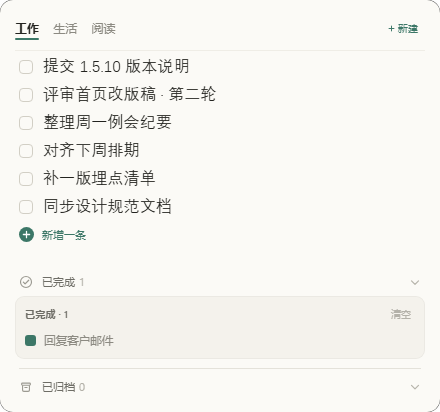
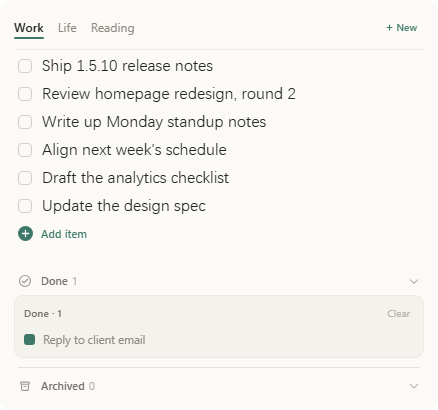
Rewrite README in a formal register, add MIT license, split screenshots by language

diff --git a/README.md b/README.md
@@ -1,48 +1,52 @@
 # Desk List
 
-**A todo list that lives on your wallpaper.** It sits on the desktop layer, under every window, and ignores the mouse completely — until you hold `Ctrl`.
+A minimal todo list that resides on the Windows desktop. It sits below every other window, ignores mouse input by default, and becomes interactive only while `Ctrl` is held.
 
 English · [简体中文](README.zh-CN.md)
 
 <img src="assets/screenshot.png" width="440" alt="Desk List">
 
-## What it is
+## Overview
 
-A small, always-there card of tasks pinned to the desktop. It takes no taskbar slot, never pops up, and never asks to be opened. The list is simply there, next to your icons.
+Desk List renders a single persistent card of tasks directly on the desktop surface. It occupies no taskbar slot, never opens on demand, and requires no interaction beyond a glance.
 
-Clicks pass straight through it, so it blocks nothing. Hold `Ctrl` and it wakes up: category tabs, "new item", and the done / archive drawers fade in.
+Because pointer input passes through by default, it obstructs neither desktop icons nor other applications. Holding `Ctrl` reveals the interface: category tabs, the add action, and the completed and archived drawers.
 
 ## Features
 
-- **Part of the wallpaper** — bottom of the Z-order, click-through, absent from the taskbar and `Alt+Tab`
-- **Hold `Ctrl` to interact** — tabs, add, done and archive drawers appear
-- **`Ctrl+Alt+D`** — toggle a pinned card: clickable, always on top, one keystroke away from the desktop again
-- **`Ctrl+Alt+N`** — add an item from any app
-- **Tray menu** — show, pin / unpin, quit
-- **Categories and archive** — checking an item moves it to that category's *Done*; archiving clears them
-- **Resizable** — drag the right edge, 320–520 px
-- **Local JSON file** — no account, no sync, no telemetry
+- **Desktop layer** — positioned at the bottom of the Z-order; mouse input passes through; excluded from the taskbar and `Alt+Tab`
+- **Interactive only while `Ctrl` is held** — tabs, add, completed and archived drawers appear
+- **`Ctrl+Alt+D`** — toggles pinned mode: the card becomes clickable and stays above other windows; press again to return it to the desktop
+- **`Ctrl+Alt+N`** — creates an item from any application
+- **Tray menu** — show, pin, unpin, quit
+- **Categories and archiving** — checking an item moves it to that category's completed list; archiving clears it
+- **Adjustable width** — drag the right edge, 320–520 px
+- **Local storage** — a single JSON file; no account, no synchronization, no telemetry
 
 ## Download
 
-Windows 10 / 11 (x64). Grab the [latest release](https://github.com/WoBok/desklist/releases/latest):
+Windows 10 / 11 (x64). Available from the [latest release](https://github.com/WoBok/desklist/releases/latest):
 
-- `DeskList-Setup-x.y.z.exe` — installer, per-user, no admin rights
-- `DeskList-x.y.z-Portable.exe` — single file, run it from anywhere
+- `DeskList-Setup-x.y.z.exe` — installer, per-user, no administrator rights required
+- `DeskList-x.y.z-Portable.exe` — single executable, no installation required
 
 ## Build from source
 
-Rust 1.77+, Node 18+, and the [Tauri 2 prerequisites](https://tauri.app/start/prerequisites/).
+Requires Rust 1.77+, Node 18+, and the [Tauri 2 prerequisites](https://tauri.app/start/prerequisites/).
 
 ```bash
 npm install
 npx tauri build            # → src-tauri/target/release/desklist.exe
 ```
 
-The installer is scripted in `installer/setup.nsi`.
+The installer is generated from `installer/setup.nsi`.
 
 ## Notes
 
-- Windows first. macOS code paths exist but are untested.
-- GPU compositing is disabled in `tauri.conf.json` (`--disable-gpu`). It was the only way to get a transparent window to paint on the development machine — drop those flags if your GPU handles it.
-- Idle cost: about 31 MB RAM, well under 0.1% CPU.
+- Windows is the primary target. macOS code paths exist but have not been verified.
+- GPU compositing is disabled in `tauri.conf.json` (`--disable-gpu`). On the development machine this was required for a transparent window to render at all; remove the flags where hardware acceleration works correctly.
+- Idle resource usage: approximately 31 MB of memory and under 0.1% CPU.
+
+## License
+
+MIT — see [LICENSE](LICENSE).

diff --git a/README.zh-CN.md b/README.zh-CN.md
@@ -1,34 +1,34 @@
 # Desk List
 
-**贴在桌面壁纸上的待办清单。** 它待在桌面层级、压在所有窗口之下，平时鼠标完全穿透 —— 按住 `Ctrl` 才活。
+一个常驻 Windows 桌面的极简待办清单。位于所有窗口之下，默认不接收鼠标输入，仅在按住 `Ctrl` 时响应交互。
 
 [English](README.md) · 简体中文
 
-<img src="assets/screenshot.png" width="440" alt="Desk List">
+<img src="assets/screenshot.zh.png" width="440" alt="Desk List">
 
-## 它是什么
+## 概述
 
-一张永远在的小卡片，钉在桌面上。不占任务栏、不弹窗、不需要你「打开」它 —— 清单就在那里，挨着你的图标。
+Desk List 在桌面上呈现一张常驻的任务卡片。它不占用任务栏位置，不主动弹出，除查看之外无需任何操作。
 
-鼠标点它等于点到桌面，不挡任何操作。按住 `Ctrl`，它醒过来：分类页签、新建、已完成 / 已归档抽屉一起浮现。
+由于默认忽略指针输入，它不会遮挡桌面图标或其他应用程序。按住 `Ctrl` 后界面浮现：分类页签、新增条目、已完成与已归档抽屉。
 
 ## 功能
 
-- **桌面的一部分** —— 压在 Z 序最底、鼠标穿透、不进任务栏也不进 `Alt+Tab`
-- **按住 `Ctrl` 才可交互** —— 页签、新建、已完成与已归档抽屉
-- **`Ctrl+Alt+D`** —— 切换「置顶态」：白卡常驻、可点击、始终在最前；再按一次回到桌面
-- **`Ctrl+Alt+N`** —— 在任何程序里新建一条
-- **托盘菜单** —— 显示、置顶 / 贴回桌面、退出
-- **分类与归档** —— 勾掉一条进该分类的「已完成」，归档则清空
-- **可调宽** —— 拖右边缘，320–520 px
-- **本地 JSON 存档** —— 无账号、无同步、无遥测
+- **桌面层级** —— 位于 Z 序最底部；鼠标输入穿透；不出现在任务栏与 `Alt+Tab` 中
+- **按住 `Ctrl` 方可交互** —— 页签、新建、已完成与已归档抽屉随之浮现
+- **`Ctrl+Alt+D`** —— 切换置顶态：卡片可点击并保持在其他窗口之上；再次按下恢复到桌面
+- **`Ctrl+Alt+N`** —— 在任意程序中新建一条
+- **托盘菜单** —— 显示、置顶、恢复到桌面、退出
+- **分类与归档** —— 勾选的项目进入该分类的已完成列表；归档后清空
+- **宽度可调** —— 拖动右边缘，320–520 px
+- **本地存储** —— 单个 JSON 文件；无账号、无同步、无遥测
 
 ## 下载
 
-Windows 10 / 11 (x64)，见 [最新发布](https://github.com/WoBok/desklist/releases/latest)：
+Windows 10 / 11 (x64)，请从[最新发布](https://github.com/WoBok/desklist/releases/latest)获取：
 
-- `DeskList-Setup-x.y.z.exe` —— 安装版，装到当前用户，不需要管理员权限
-- `DeskList-x.y.z-Portable.exe` —— 单文件绿色版，放哪都能跑
+- `DeskList-Setup-x.y.z.exe` —— 安装版，安装到当前用户，无需管理员权限
+- `DeskList-x.y.z-Portable.exe` —— 单文件便携版，无需安装
 
 ## 从源码构建
 
@@ -43,6 +43,10 @@ npx tauri build            # → src-tauri/target/release/desklist.exe
 
 ## 说明
 
-- 以 Windows 为先。代码里留有 macOS 分支，但未实测。
-- `tauri.conf.json` 里关掉了 GPU 合成（`--disable-gpu`）。这是开发机上让透明窗口正常出画的唯一办法，你的显卡没问题就去掉这两个参数。
+- 以 Windows 为主要平台。代码中保留 macOS 分支，但尚未验证。
+- `tauri.conf.json` 中关闭了 GPU 合成（`--disable-gpu`）。在开发机上，透明窗口需关闭该项才能正常渲染；硬件加速正常的机器可移除这两个参数。
 - 闲置开销：约 31 MB 内存，CPU 长期低于 0.1%。
+
+## 许可证
+
+MIT，详见 [LICENSE](LICENSE)。
